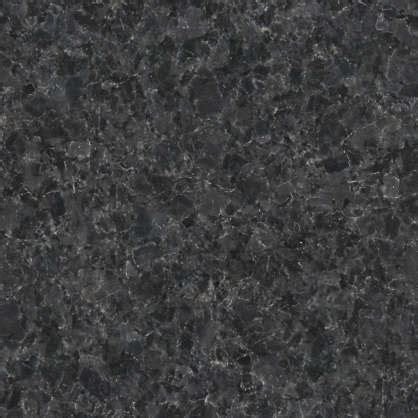
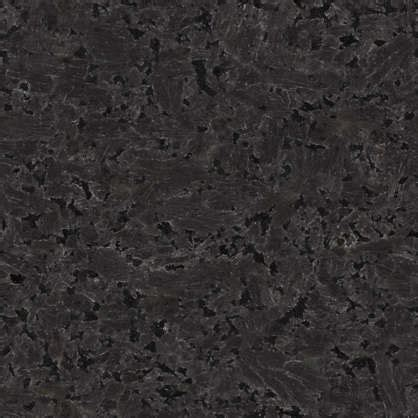
changed black marble texture; minor changes to scoreboard

diff --git a/TP3/gamelogic/MyGameOrchestrator.js b/TP3/gamelogic/MyGameOrchestrator.js
@@ -48,9 +48,7 @@ class MyGameOrchestrator {
             let initial_board = eval(response.target.response);
             this.board = new MyGameBoard(this.scene, gameBoard, initial_board,
                 whiteTileCreator, blackTileCreator, whitePieceCreator, blackPieceCreator);
-
-            // this.board.createGameBoard(initial_board);
-
+                
             //if (this.gameState.isAITurn())
             //this.makeAIMove();
         });
@@ -136,22 +134,18 @@ class MyGameOrchestrator {
     checkGameOver() {
         this.prolog.isGameOver(this.board, this.gameState).then((response) => {
             let isGameOver = response.target.response;
-            if (isGameOver == "false") {
-                this.updateGameScore();
+            if (isGameOver != "false") {
+                this.endGame(isGameOver);
             }
-            else {
-                let winner = isGameOver
-                this.endGame(winner);
-            }
+
+            this.updateGameScore();
         });
     }
 
     endGame(winner) {
-        // TODO Update scoreboard
-        console.log(this.gameSequence);
+        this.scoreboard.endGame(winner);
         this.gameOver = true;
         console.log("Winner is " + winner);
-        this.scoreboard.endGame(winner);
     }
 
     switchPieces(sourceTile, destTile) { // called by animatior when switching animation ends

diff --git a/TP3/gamelogic/MyAnimator.js b/TP3/gamelogic/MyAnimator.js
@@ -1,8 +1,9 @@
+/*Source: https://easings.net */
 function easeOutBack(x) {
     const c1 = 1.70158;
     const c3 = c1 + 1;
 
-return 1 + c3 * Math.pow(x - 1, 3) + c1 * Math.pow(x - 1, 2);
+    return 1 + c3 * Math.pow(x - 1, 3) + c1 * Math.pow(x - 1, 2);
 }
 
 function easeInOutBack(x) {
@@ -13,7 +14,7 @@ function easeInOutBack(x) {
       ? (Math.pow(2 * x, 2) * ((c2 + 1) * 2 * x - c2)) / 2
       : (Math.pow(2 * x - 2, 2) * ((c2 + 1) * (x * 2 - 2) + c2) + 2) / 2;
     
-   }
+}
 
 class MyAnimator {
     constructor(orchestrator) {

diff --git a/TP3/primitives/MyTimer.js b/TP3/primitives/MyTimer.js
@@ -34,7 +34,8 @@ class MyTimer extends CGFobject {
 
     setTimeout(val) {
         this.timeout = val;
-        this.timeDisplay.updateText(val.toString());
+        if (!this.started)
+            this.timeDisplay.updateText(val.toString());
     }
 
     updateTimeDisplay(now) {

diff --git a/TP3/MyPrimitiveCreator.js b/TP3/MyPrimitiveCreator.js
@@ -424,8 +424,6 @@ class MyPrimitiveCreator {
         if (slices == null || isNaN(slices))
             return "unable to parse field 'slices' of the ";
 
-
-
         return new MySquarePiece(this.scene, radius, slices);
     }
 

diff --git a/TP3/primitives/MyScoreBoard.js b/TP3/primitives/MyScoreBoard.js
@@ -106,9 +106,7 @@ class MyScoreBoard extends CGFobject {
             this.winnerDisplay.display();
             this.scene.popMatrix();
         }
-            
-
-
+        
     }
 }
 
